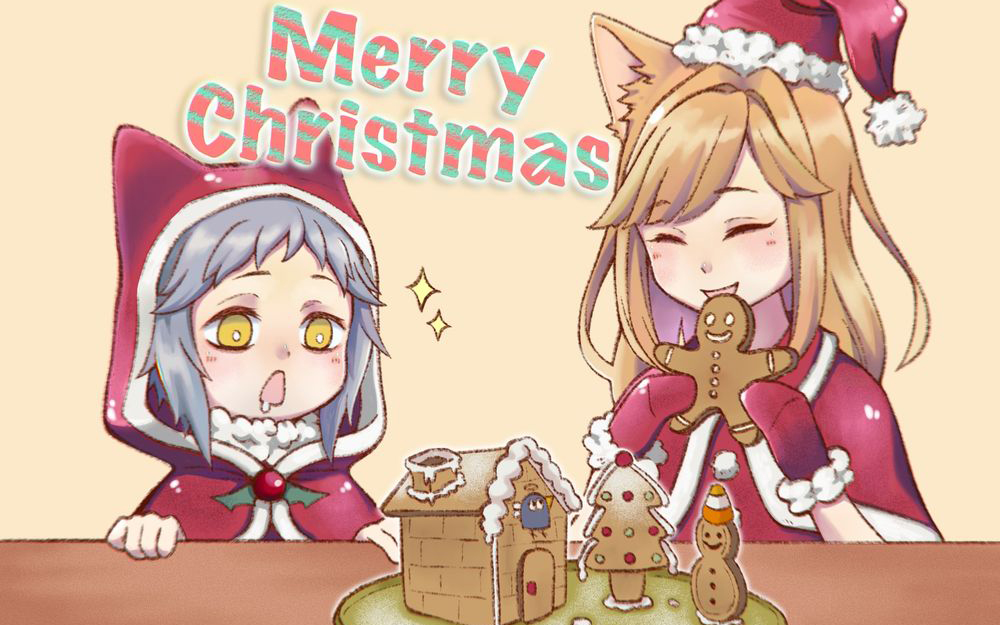
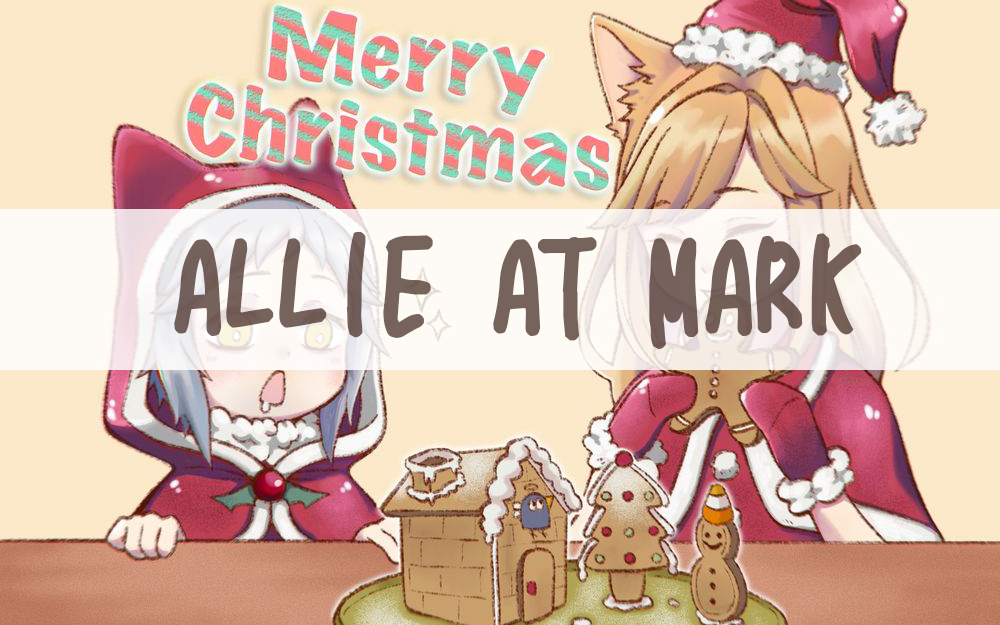
Add files via upload

Changed region(s): [[0.0, 0.3344, 1.0, 0.608]]

diff --git a/index.html b/index.html
@@ -21,16 +21,14 @@
 
 <!-- Nav -->
 <nav class="navbar navbar-expand-lg navbar-dark ">
-    <!-- <a class="navbar-brand" href="#">首頁</a> -->
-    <button class="navbar-toggler" type="button" data-toggle="collapse" data-target="#navList" aria-controls="navList" aria-expanded="false" aria-label="Toggle navigation">
+     <button class="navbar-toggler" type="button" data-toggle="collapse" data-target="#navList" aria-controls="navList" aria-expanded="false" aria-label="Toggle navigation">
       <span class="navbar-toggler-icon"></span>
     </button>
     
     <a href="index.html">  
         <img src="img/icon.jpg" class=" navicon rounded-circle ">
 </a>
-    <div class="collapse navbar-collapse justify-content-md-center" id="navList">
-     <div class="homeName">Allie_at_mark</div>
+    <div class="collapse navbar-collapse justify-content-md-center" id="navList"> 
       <ul class="navbar-nav">
         
         <li class="nav-item active">
@@ -49,10 +47,10 @@
   </nav>
 
 <!-- Header -->
-<header class="header mb-1 ">
+<header class="header mb-1 ">    
+    <div class="homeNameBase"> 
     <img src="img/christmas.jpg" class=" headerImg">
-   <!--  class="img-fluid" -->
-  </header>
+   </header>
 
 
 

diff --git a/css/style.css b/css/style.css
@@ -22,6 +22,7 @@ html,body{
     width: 100%;
     height: 300px;
  object-fit: cover; 
+ 
 }
 
 ::-webkit-scrollbar {
@@ -141,10 +142,4 @@ html,body{
   left: 150px;
   padding: 15px;
 }
-
- .homeName{
-  position: absolute;
-  left: 17%;
-  font-weight: 500;
-  font-size: large;
- }
+ 
